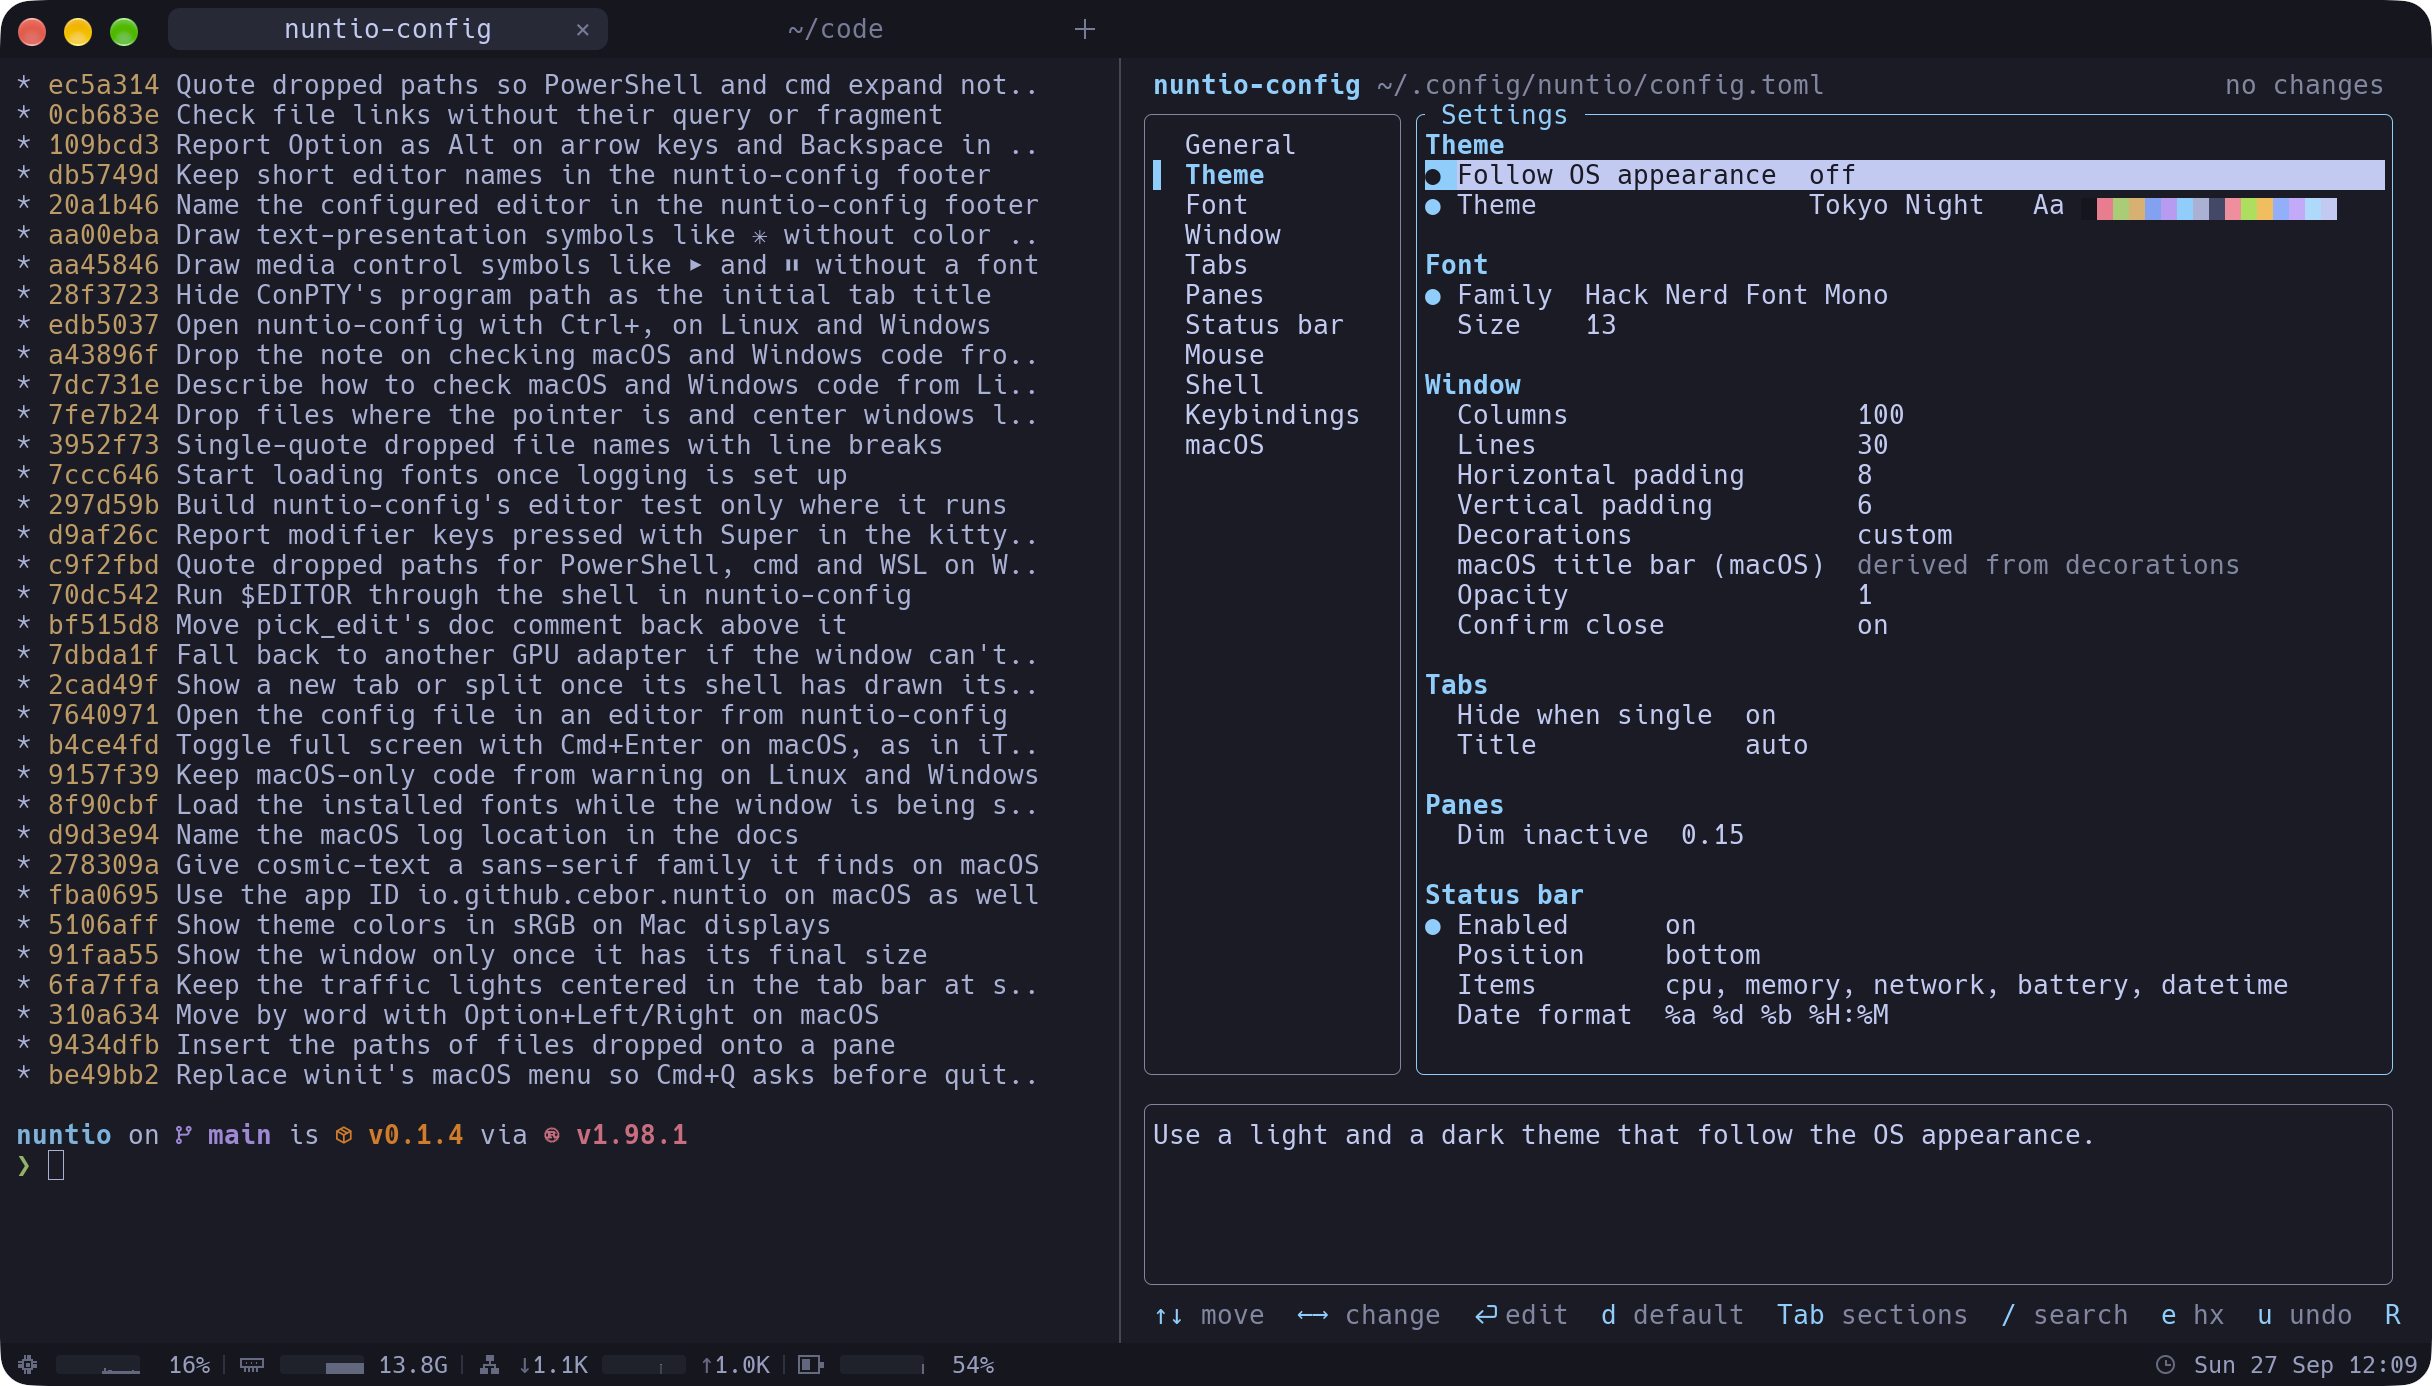
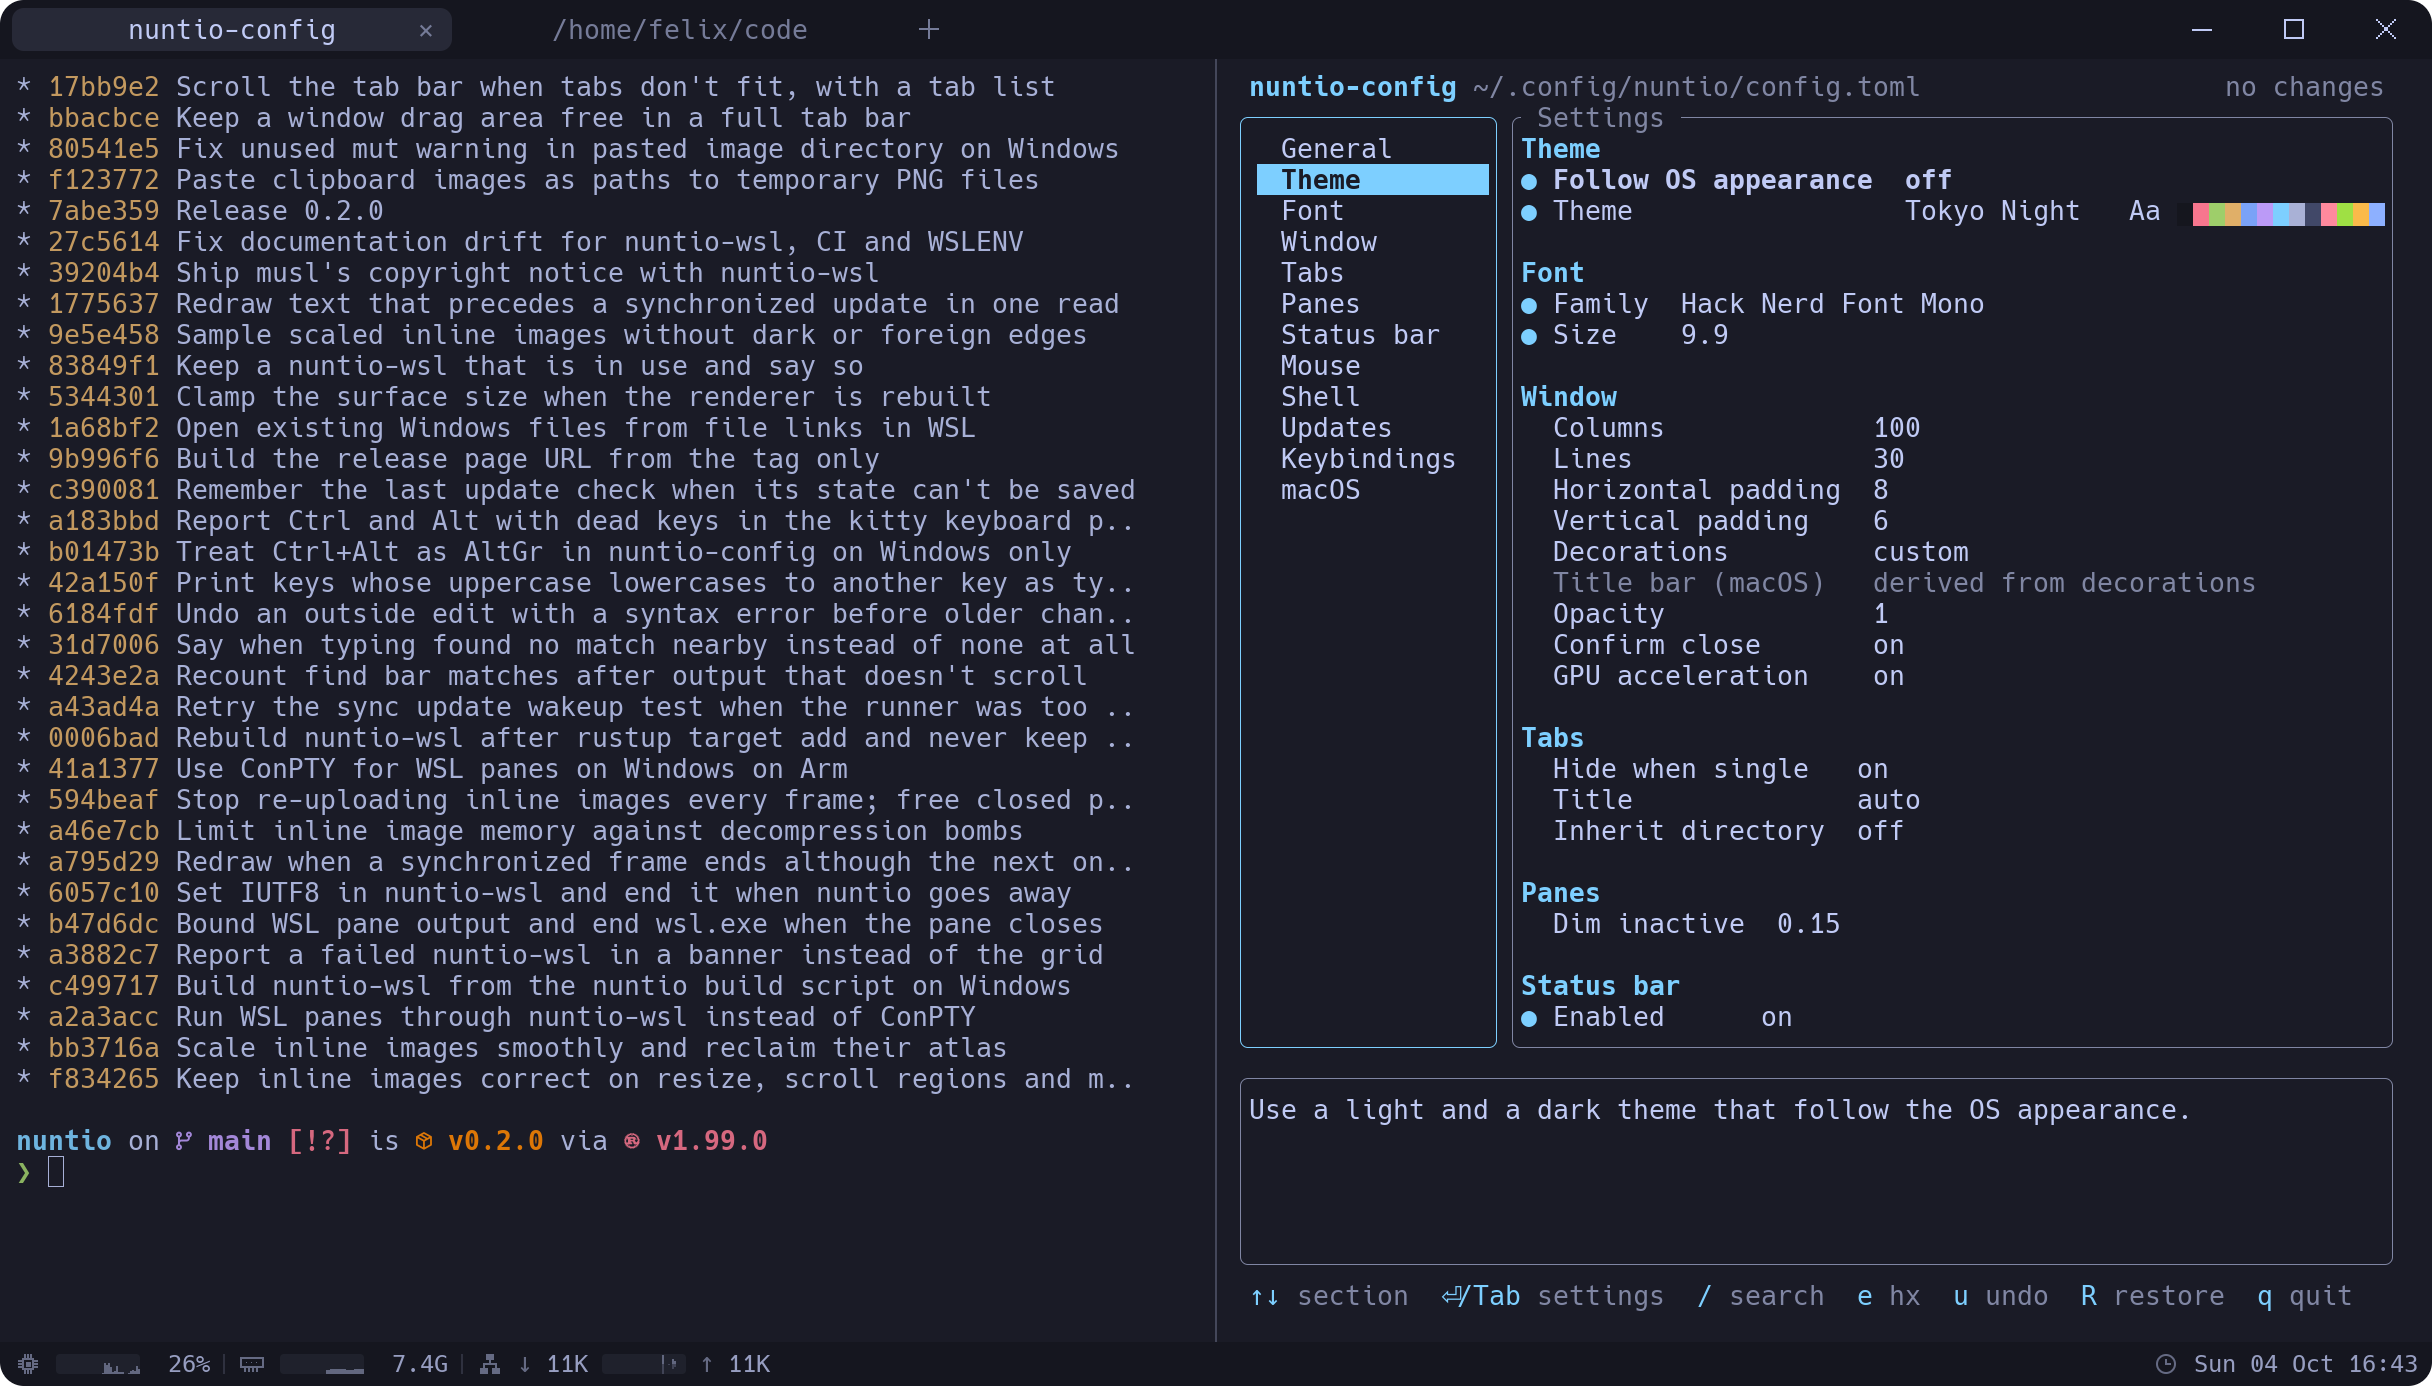
Retake the screenshots on Linux

diff --git a/README.md b/README.md
@@ -28,7 +28,7 @@
 
 nuntio is one window with tabs and split panes, rendered on the GPU and configured with a single TOML file that reloads while you type. Terminal emulation comes from [`alacritty_terminal`](https://crates.io/crates/alacritty_terminal); everything around it (window, tabs, panes, rendering, config) is nuntio's own.
 
-![nuntio on macOS with two tabs, a split pane with git log and the nuntio-config editor, and the status bar](assets/screenshot.png)
+![nuntio on Linux with two tabs, a split pane with git log and the nuntio-config editor, and the status bar](assets/screenshot.png)
 
 ## Features
 
@@ -49,7 +49,7 @@ nuntio is one window with tabs and split panes, rendered on the GPU and configur
 - **Status bar** (optional): live graphs of CPU, memory and network, the battery level and the time.
 - **Idle means idle**: nuntio only redraws when something changed, so an idle window uses close to 0% CPU.
 
-![The find bar searching for "tab" in git log, with five matches highlighted and a match count of 5/5](assets/screenshots/find-bar.png)
+![The find bar searching for "tab" in git log, with four matches highlighted and a match count of 4/4](assets/screenshots/find-bar.png)
 
 ## Installation
 

diff --git a/docs/config.md b/docs/config.md
@@ -208,7 +208,7 @@ option_as_meta = "none"
 
 A bar with live system graphs and the date and time. It is off by default.
 
-![The status bar with CPU, memory and network graphs, the battery level and the date](../assets/screenshots/status-bar.png)
+![The status bar with CPU, memory and network graphs and the date](../assets/screenshots/status-bar.png)
 
 | Key | Type | Default | Description |
 |---|---|---|---|
